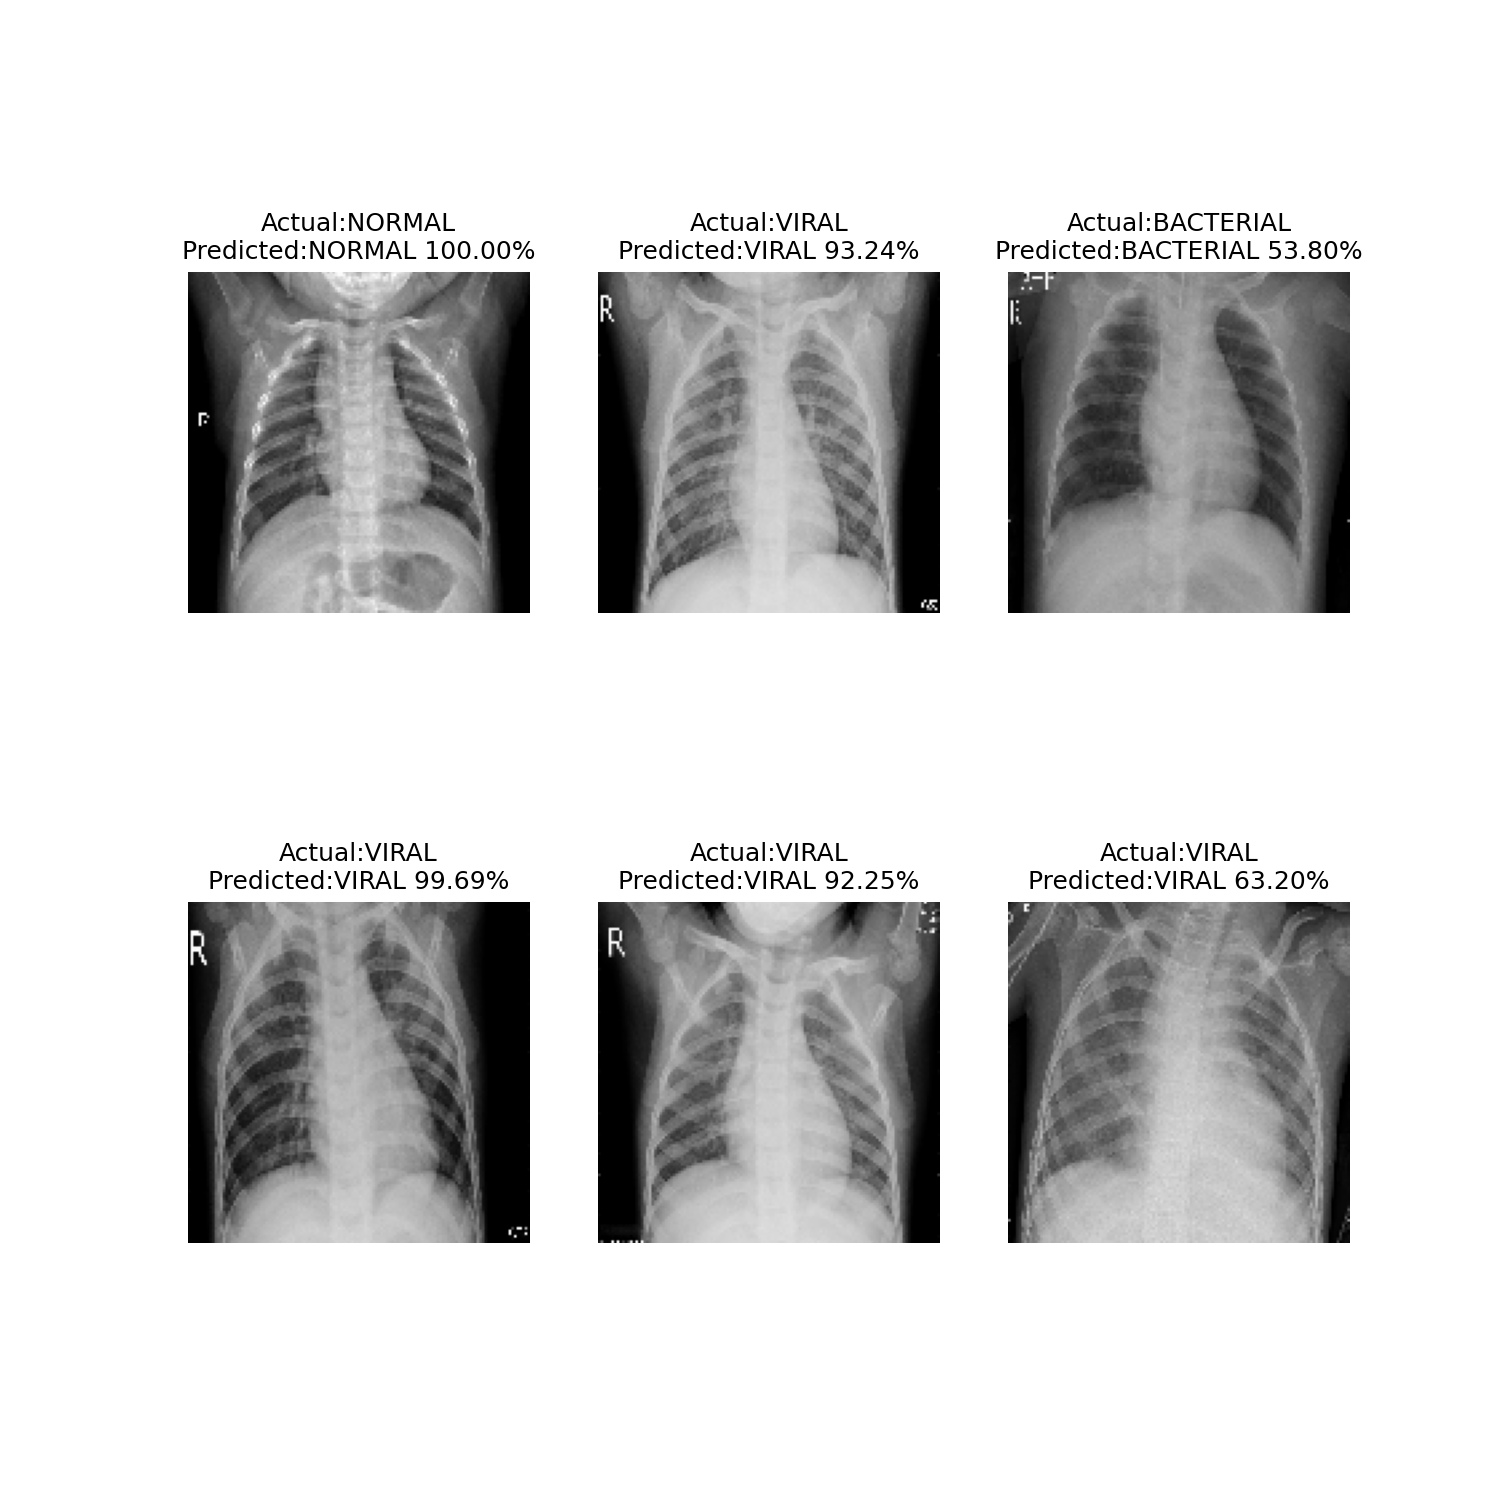
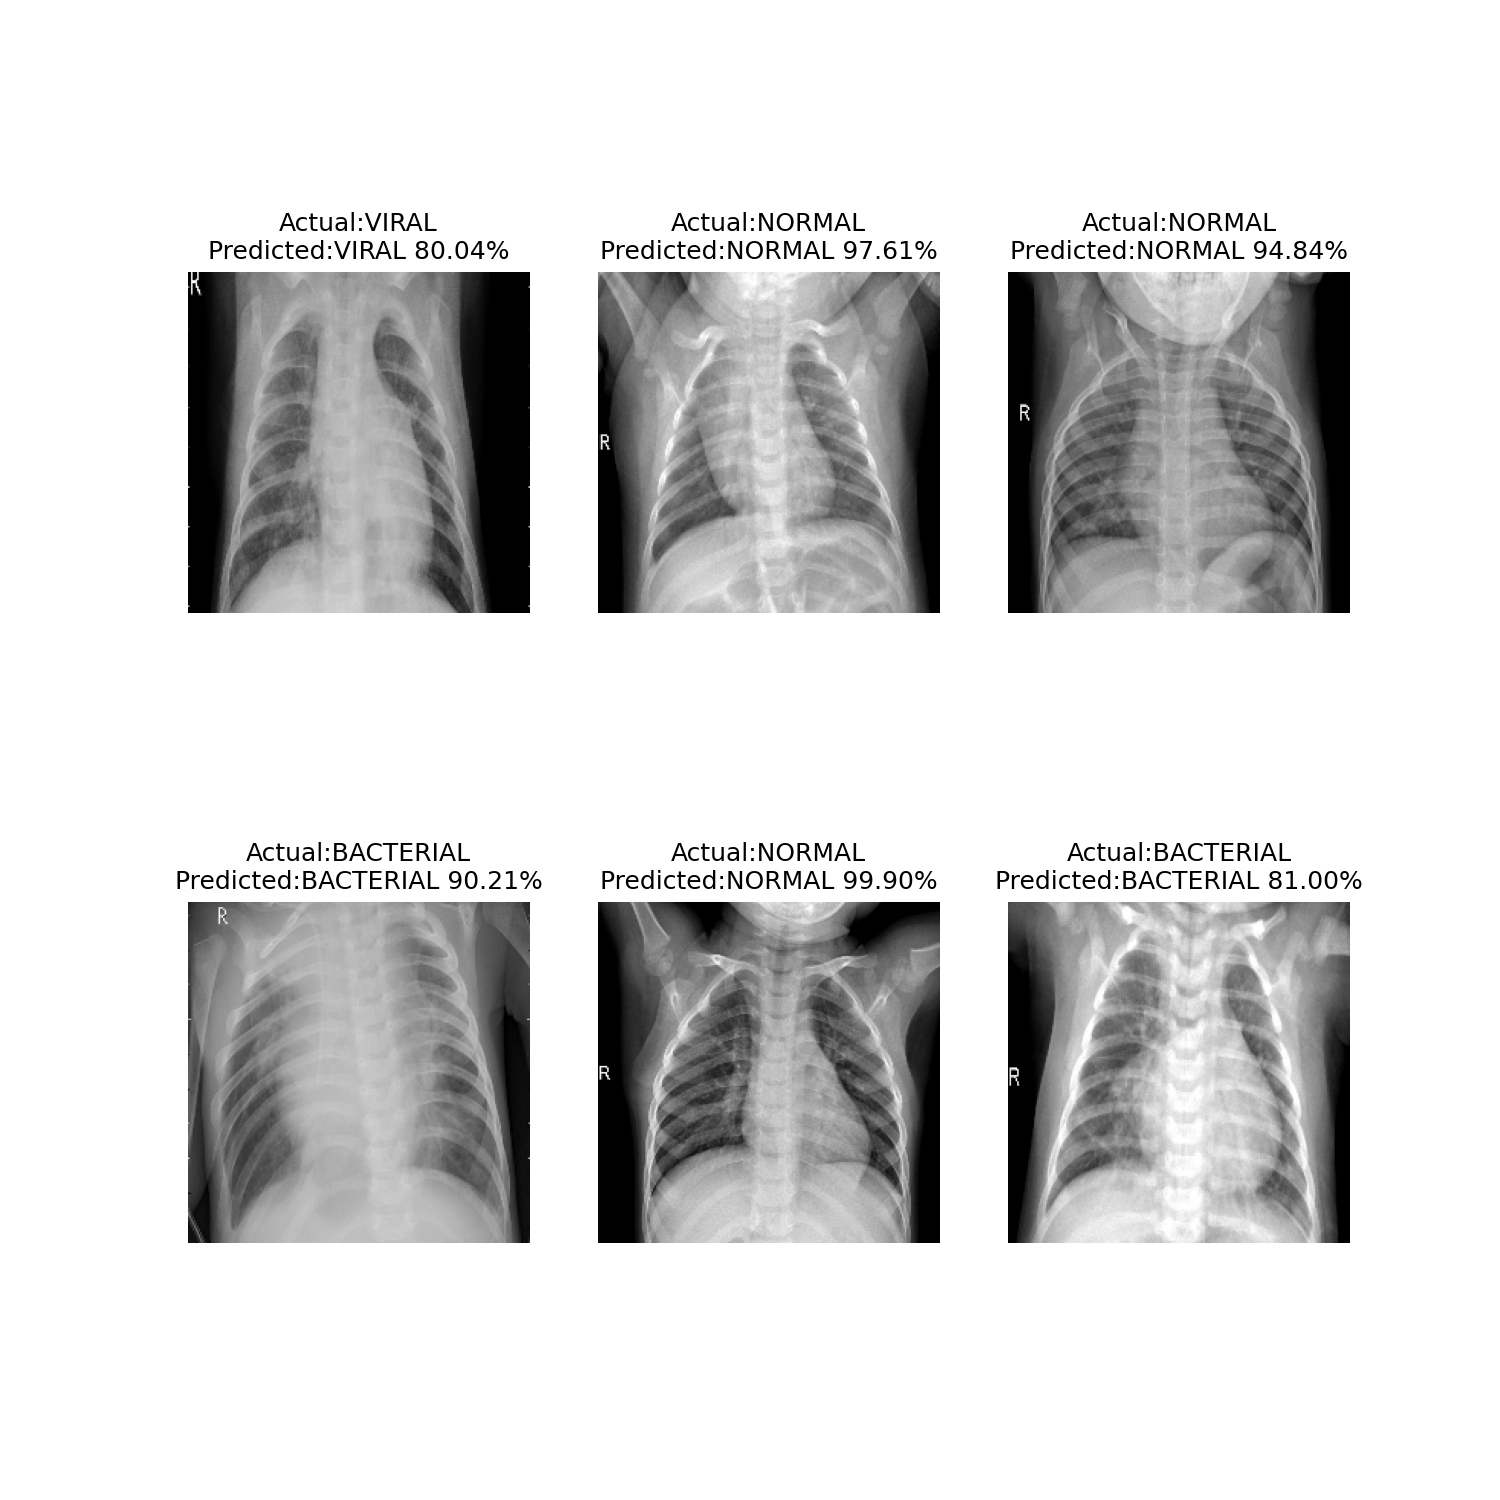
increase resolution epochs

diff --git a/pneumonia_classification.py b/pneumonia_classification.py
@@ -16,11 +16,11 @@ SCRIPT_DIR = Path(__file__).resolve().parent
 OUTPUT_DIR = SCRIPT_DIR / "outputs"
 OUTPUT_DIR.mkdir(parents=True, exist_ok=True)
 
-batch_size = 12
+batch_size = 16
 num_classes = 3
-epochs = 8
-img_width = 128
-img_height = 128
+epochs = 15
+img_width = 224
+img_height = 224
 img_channels = 3
 fit = True
 train_dir = str(SCRIPT_DIR / 'chest_xray' / 'train')
@@ -78,15 +78,19 @@ with tf.device('/gpu:0'):
                   optimizer=Adam(),
                   metrics=['accuracy'])
 
+    earlystop_callback = tf.keras.callbacks.EarlyStopping(
+        monitor='val_loss', patience=5, restore_best_weights=True)
     save_callback = tf.keras.callbacks.ModelCheckpoint(
         str(OUTPUT_DIR / "pneumonia.keras"), save_freq='epoch', save_best_only=True)
+    lr_reduce = tf.keras.callbacks.ReduceLROnPlateau(
+        monitor='val_loss', factor=0.5, patience=3, min_lr=1e-6, verbose=1)
 
     if fit:
         history = model.fit(
             train_ds,
             batch_size=batch_size,
             validation_data=val_ds,
-            callbacks=[save_callback],
+            callbacks=[save_callback, earlystop_callback, lr_reduce],
             epochs=epochs)
     else:
         model = tf.keras.models.load_model(str(OUTPUT_DIR / "pneumonia.keras"))
